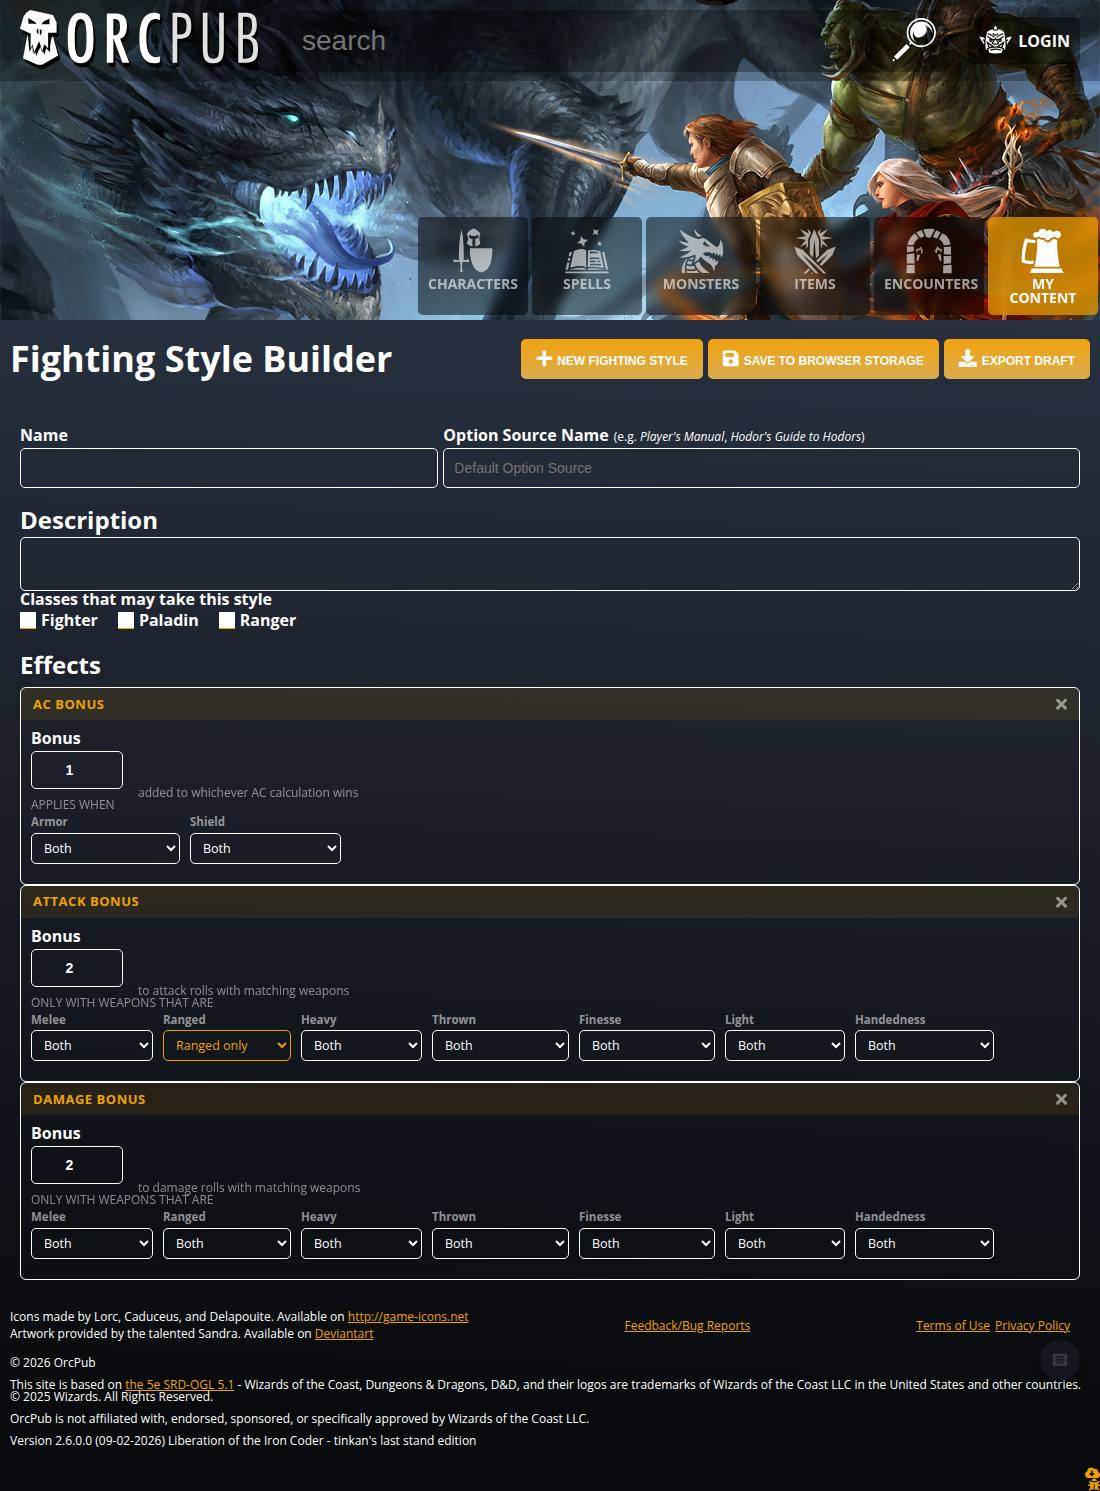
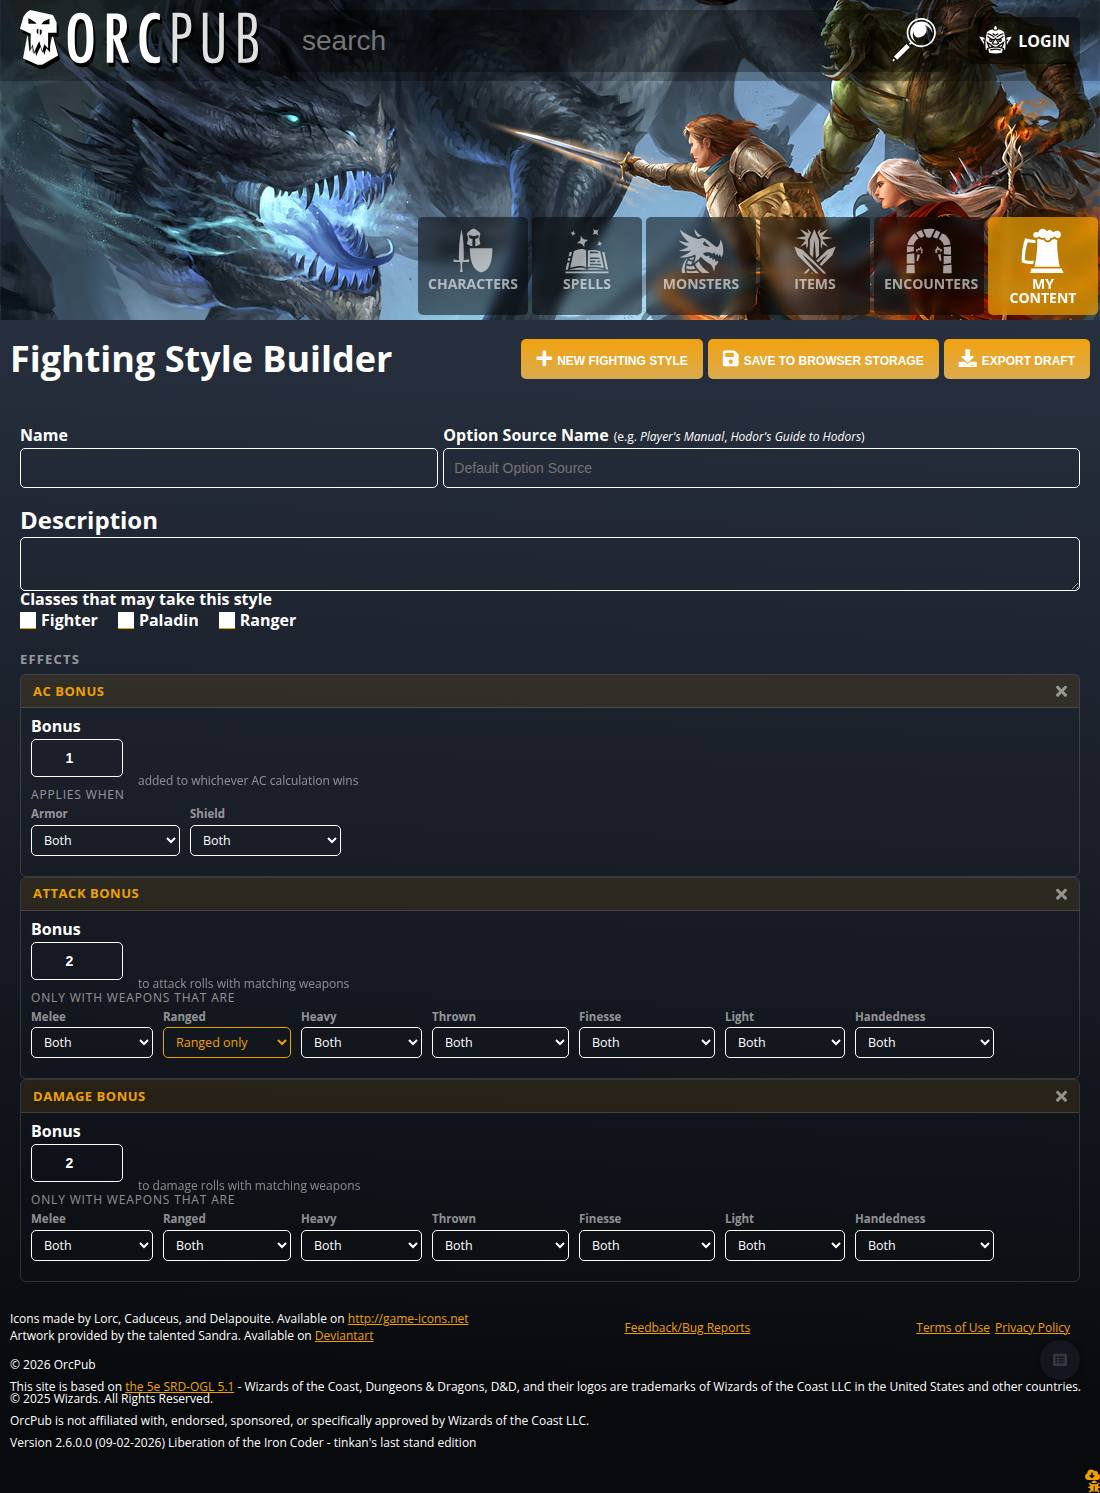
Check the form against the mockup instead of asserting it matches
I claimed the shipped form implemented the mockup, by eye, and was wrong
twice. This measures it: mockup-parity.js renders the mockup and the real
builder, reads the computed style of each corresponding element, and prints
the differences.

It is a report, not a gate. Some divergence is correct and saying which is the
design work, so two kinds are excluded by name in the script: mockup
scaffolding (.panel, body, the two-column layout — the mockup had to draw its
own idea of "the form area"; importing it would make this builder unlike every
other one), and app chrome (input/select background and border come from the
app's widget styles, and where they differ the app is right).

What it found is the thing that made the form look unfinished: the group
borders were rendering SOLID WHITE. .b-1 sets the `border` shorthand with no
colour, so it resets to currentColor, and it is declared later in the
stylesheet than any border-color our own class can set. Same for .b-b-1 on the
header. The row owns its border now and the hairline is the intended 14% white.

It also reports one difference where the MOCKUP is wrong: the bonus input
computes to font-weight 400 there, because its own input{font:inherit} outranks
its .num{font-weight:700}. The app renders 700 — what the mockup meant. Noted
in the script so nobody "fixes" the app to match a mockup bug.

Named classes added so the comparison has something to address: .when-label,
[…]

diff --git a/test/e2e/mockup-parity.js b/test/e2e/mockup-parity.js
@@ -1,0 +1,109 @@
+// Does the shipped form actually look like the approved mockup?
+//
+// The gallery doc claims `styles/core.clj` implements `docs/kb/assets/builder-form-mockup.html`.
+// Nothing enforced that, so it drifted — the claim was made by eye and was wrong. This renders
+// BOTH, reads the computed style of each corresponding element, and prints the differences.
+//
+// It is a REPORT, not a pass/fail gate on every property: some divergence is correct, and saying
+// which is the design work. Two categories are excluded by name below rather than silently:
+//
+//   - mockup scaffolding — `.panel`, `body`, the two-column `.cols`. The mockup is a standalone
+//     page that had to draw its own idea of "the form area"; the real form area is the app page.
+//     Importing the panel would make this one builder unlike every other builder in the app.
+//   - app chrome — input/select background and border come from the app's own widget styles. The
+//     mockup approximated them; where they differ the APP is right, not the mockup.
+//
+// A worked example of the third case, "the mockup is wrong": it reports the bonus input at
+// font-weight 400 though `.num` asks for 700, because its own `input{font:inherit}` shorthand has
+// higher specificity and resets it. The app renders 700 — what the mockup MEANT. Do not "fix" the
+// app to match a mockup bug; fix the mockup or note it, as here.
+//
+// Prereqs:  lein garden once && lein fig:build && lein e2e-server
+// Run:      node test/e2e/mockup-parity.js
+const fs = require('fs');
+const http = require('http');
+const path = require('path');
+const { chromium } = require('playwright');
+const { BASE, findChrome, dismissCookieBar, fillEffectBonus } = require('./lib');
+
+const MOCKUP = path.resolve(__dirname, '../../docs/kb/assets/builder-form-mockup.html');
+
+// mockup selector -> app selector, and which properties are design rather than chrome
+const PAIRS = [
+  ['group box',    '.grp',            '.effect-row',           ['borderTopWidth', 'borderTopColor', 'borderRadius']],
+  ['group header', '.grp > header',   '.effect-row-header',    ['backgroundColor', 'paddingTop', 'paddingLeft', 'borderBottomColor', 'borderBottomWidth']],
+  ['group title',  '.grp > header b', '.effect-row-header span', ['color', 'fontSize', 'letterSpacing', 'textTransform']],
+  ['add chip',     '.chip',           '.chip',                 ['borderStyle', 'borderColor', 'color', 'borderRadius', 'fontSize', 'fontWeight']],
+  ['sub-heading',  '.whenlbl',        '.when-label',           ['color', 'fontSize', 'textTransform', 'letterSpacing']],
+  ['tag label',    '.tag span',       '.tag-label',            ['fontSize', 'color', 'fontWeight']],
+  ['tag select',   '.tag select',     '.tag select',           ['minWidth', 'fontSize', 'paddingTop', 'paddingLeft']],
+  ['set tag',      '.tag select.set', '.tag select.set',       ['borderTopColor', 'color']],
+  ['bonus input',  '.num',            '.row-lead-num input',   ['width', 'textAlign', 'fontWeight']],
+];
+
+const styleOf = (page, sel, props) => page.evaluate(({ s, p }) => {
+  const el = document.querySelector(s);
+  if (!el) return null;
+  const cs = getComputedStyle(el);
+  const out = {};
+  p.forEach(k => { out[k] = cs[k]; });
+  return out;
+}, { s: sel, p: props });
+
+(async () => {
+  // serve the mockup so it renders with the same font stack resolution as a real page
+  const srv = http.createServer((_q, r) => {
+    r.writeHead(200, { 'Content-Type': 'text/html' });
+    r.end(fs.readFileSync(MOCKUP));
+  });
+  await new Promise(r => srv.listen(0, r));
+  const mockUrl = `http://localhost:${srv.address().port}/`;
+
+  const browser = await chromium.launch({ executablePath: findChrome() });
+  const mock = await browser.newPage({ viewport: { width: 1100, height: 1400 } });
+  await mock.goto(mockUrl, { waitUntil: 'load' });
+
+  const app = await browser.newPage({ viewport: { width: 1100, height: 1400 } });
+  await app.goto(`${BASE}/pages/dnd/5e/fighting-style-builder`, { waitUntil: 'networkidle' });
+  await app.waitForTimeout(1800);
+  await dismissCookieBar(app);
+  // the app's rows only exist once added, and `.set` only once a tag carries a value
+  for (const t of ['AC Bonus', 'Attack Bonus']) {
+    await app.evaluate((title) => {
+      const b = [...document.querySelectorAll('button')].find(e => e.textContent.trim() === `+ ${title}`);
+      if (b) b.click();
+    }, t);
+    await app.waitForTimeout(250);
+  }
+  for (const [l, v] of [['AC Bonus', '1'], ['Attack Bonus', '2']]) await fillEffectBonus(app, l, v);
+  await app.evaluate(() => {
+    const lbl = [...document.querySelectorAll('.f-w-b')].find(e => e.textContent.trim() === 'Ranged');
+    const sel = lbl && lbl.parentElement.querySelector('select');
+    if (!sel) return;
+    const opt = [...sel.options].find(o => /^ranged (weapons )?only$/i.test(o.textContent.trim()));
+    if (!opt) return;
+    const set = Object.getOwnPropertyDescriptor(window.HTMLSelectElement.prototype, 'value').set;
+    set.call(sel, opt.value);
+    sel.dispatchEvent(new Event('change', { bubbles: true }));
+  });
+  await app.waitForTimeout(500);
+
+  let diffs = 0, missing = 0;
+  for (const [name, mSel, aSel, props] of PAIRS) {
+    const m = await styleOf(mock, mSel, props);
+    const a = await styleOf(app, aSel, props);
+    if (!m || !a) {
+      missing++;
+      console.log(`MISSING  ${name.padEnd(13)} ${!m ? 'mockup ' + mSel : 'app ' + aSel} not found`);
+      continue;
+    }
+    const bad = props.filter(k => m[k] !== a[k]);
+    if (!bad.length) { console.log(`ok       ${name}`); continue; }
+    diffs += bad.length;
+    console.log(`DIFF     ${name}`);
+    bad.forEach(k => console.log(`           ${k.padEnd(16)} mockup ${String(m[k]).padEnd(24)} app ${a[k]}`));
+  }
+  await browser.close();
+  srv.close();
+  console.log(`\n${diffs} property differences, ${missing} elements not found`);
+})().catch(e => { console.error(e); process.exit(2); });

diff --git a/docs/kb/builder-conversion-gallery.md b/docs/kb/builder-conversion-gallery.md
@@ -11,6 +11,7 @@ the real widgets — captured by a script, not a mockup.
 lein fig:build && lein garden once && lein e2e-server      # port 8890
 LABEL=after node test/e2e/builder-gallery.js               # every builder page
 LABEL=after node test/e2e/form-shape-comparison.js         # one builder, authored, with metrics
+node test/e2e/mockup-parity.js                            # shipped form vs the approved mockup
 ```
 
 To photograph a *previous* shape, put the old files back, rebuild, shoot, restore:
@@ -118,16 +119,35 @@ Bonus* or *Damage Bonus*.
 | visible controls, empty form | 7 | **4** |
 | visible controls, three effects authored | 23 | 23 |
 | labels repeated with nothing distinguishing them | **7** | **0** |
-| page height, authored | 2229px | **1491px** |
+| page height, authored | 2229px | **1493px** |
 
 The fully-authored form has exactly the same 23 controls — grouping removes no fields — but it is
-**738px shorter**, because inside a row a bonus gets a number's width and its tags sit inline
+**736px shorter**, because inside a row a bonus gets a number's width and its tags sit inline
 instead of each taking a page-wide row of its own — all seven weapon tags now fit on one line.
 
 **The layout is a port of the approved mockup**, `assets/builder-form-mockup.html` — dashed pill
 chips on the add-bar, an orange uppercase group header, a 92px centred bonus with its hint beside
-it, and tags as `width:auto` selects under a muted sub-heading. Keep the two in step; the mockup is
-the design record and `styles/core.clj` is its implementation.
+it, and tags as `width:auto` selects under a muted sub-heading. The mockup is the design record and
+`styles/core.clj` is its implementation.
+
+**That claim is now checked, because asserting it by eye was wrong twice.** `test/e2e/mockup-parity.js`
+renders the mockup and the real builder side by side, reads the computed style of each corresponding
+element, and prints the differences. It is a **report, not a gate** — some divergence is correct, and
+saying which is the design work. Two kinds are excluded by name:
+
+- **mockup scaffolding** — `.panel`, `body`, the two-column layout. The mockup is a standalone page
+  that had to draw its own idea of "the form area"; the real form area is the app page, and importing
+  the panel would make this one builder unlike every other builder in the app.
+- **app chrome** — input and select background/border come from the app's widget styles. The mockup
+  approximated them; where they differ the app is right.
+
+It found the thing that made the form look unfinished: **the group borders were solid white.**
+`.b-1` sets the `border` shorthand with no colour, so it resets to `currentColor`, and it is declared
+later in the stylesheet than any `border-color` a class of ours can set. The row owns its border now.
+
+It also reports one difference that is the **mockup** being wrong, not the app: the bonus input reads
+`font-weight: 400` there, because the mockup's own `input{font:inherit}` outranks its `.num{font-weight:700}`.
+The app renders 700 — what the mockup meant. Do not "fix" the app to match a mockup bug.
 
 **Short labels are why the tags fit.** The mockup writes *Armor*, not *Armor requirement*, and
 *Ranged only*, not *Ranged weapons only* — under a header already reading ATTACK BONUS those words
@@ -275,3 +295,22 @@ which is five controls plus eight domain widgets.
 - `fighting-style-authoring.md` — why this builder's content also has to be *usable*, not just
   authorable.
 - `content-extensibility-framework.md` — the three-layer model these forms sit in.
+
+---
+
+## Known design gaps (measured, not yet fixed)
+
+`mockup-parity.js` only compares elements that HAVE a mockup counterpart. These have none, or sit
+outside the effects UI, and are open:
+
+- **Name and Option Source are unequal columns.** The mockup gives them `flex: 1 1 200px` each; the
+  app's are noticeably different widths. It lives in `simple-content-builder`, so changing it changes
+  **every** generated builder — including the language pair whose byte-identical property is a
+  documented claim above. Worth doing, but it is a deliberate change to that pair, not a tweak.
+- **The `:multi-enum` checkbox row is unstyled** relative to everything around it — the checkbox and
+  its label run together and the row has no rhythm with the fields above.
+- **Row bodies could use more breathing room**; the mockup's `.grp > .body` padding is 12px and the
+  app's inner spacing is inherited from generic utility classes rather than set for this context.
+
+None of these are guessed — each is visible in
+`assets/builder-comparison/fighting-style-rows-authored.jpg` against the mockup's proposed column.
